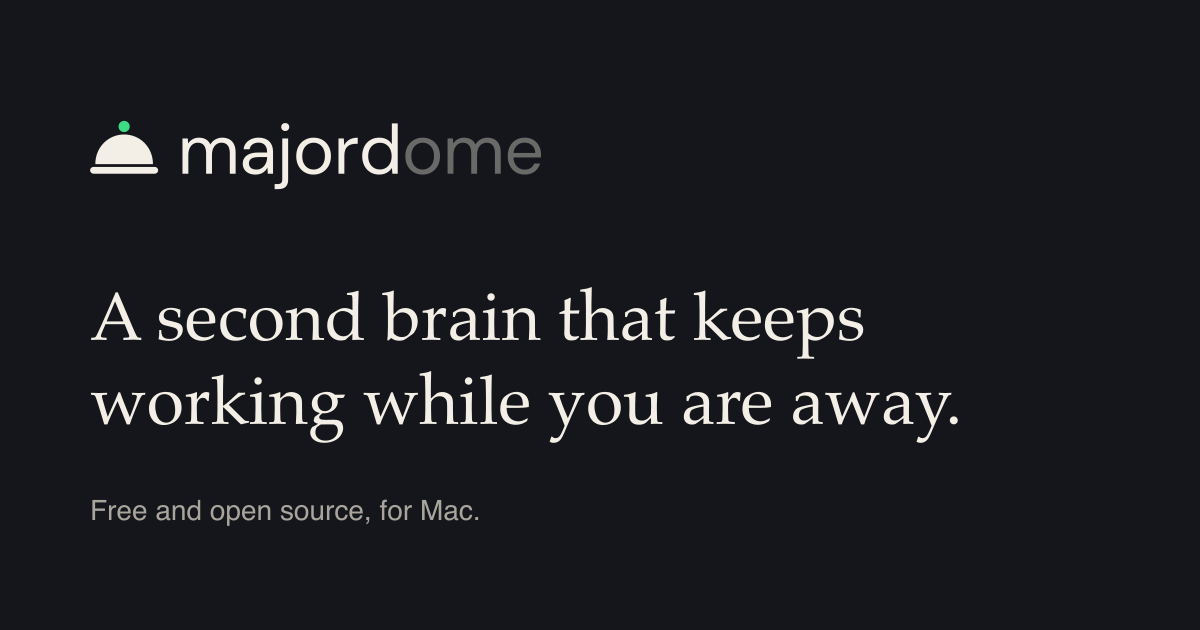
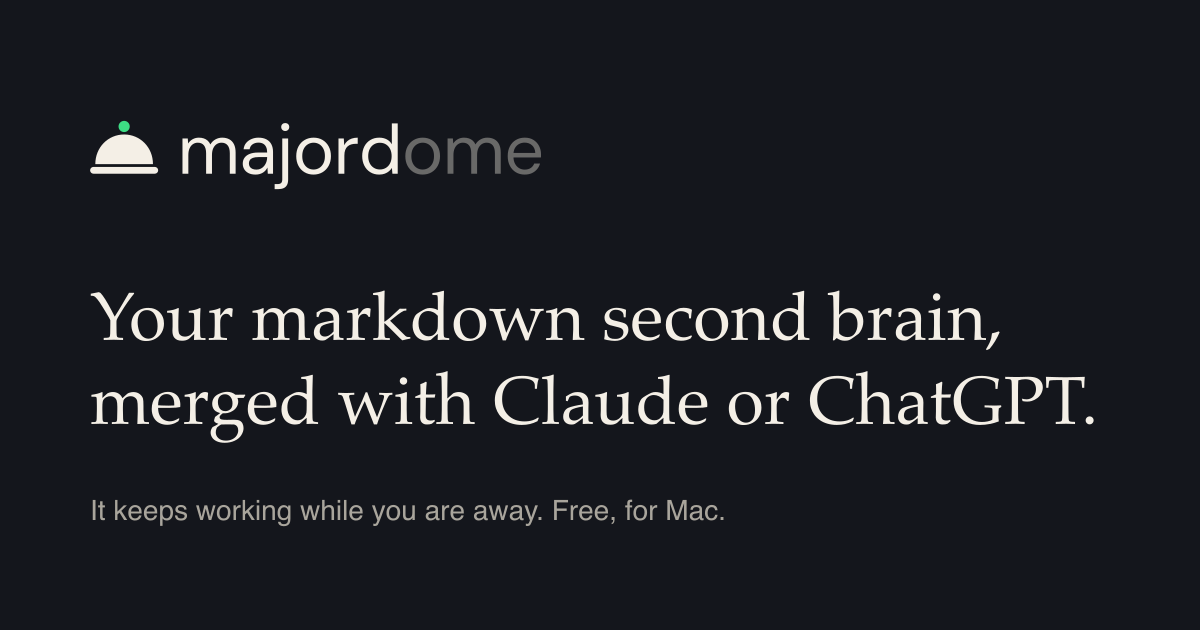
feat(site): the landing page says what Majordome is: markdown notes merged with Claude or ChatGPT

Changed region(s): [[0.0617, 0.573, 0.8942, 0.7238], [0.0617, 0.4524, 0.8325, 0.573], [0.0617, 0.7841, 0.5858, 0.8444]]

diff --git a/site/index.html b/site/index.html
@@ -3,10 +3,10 @@
   <head>
     <meta charset="utf-8" />
     <meta name="viewport" content="width=device-width, initial-scale=1" />
-    <title>Majordome: a second brain that keeps working while you are away</title>
+    <title>Majordome: your markdown second brain, merged with Claude or ChatGPT</title>
     <meta
       name="description"
-      content="Majordome is a free, open-source Mac app. Your memory is a folder of markdown notes. An assistant reads it before you type, runs routines on a schedule, and asks before it touches anything sensitive."
+      content="Majordome is a free, open-source Mac app that joins a second brain of markdown notes with the Claude or ChatGPT plan you already have. The assistant knows your notes, runs routines on a schedule, and keeps working while you are away."
     />
     <meta name="color-scheme" content="light dark" />
     <meta name="theme-color" content="#f4efe6" media="(prefers-color-scheme: light)" />
@@ -17,7 +17,7 @@
     <meta property="og:title" content="Majordome" />
     <meta
       property="og:description"
-      content="A second brain with an agent that keeps working while you are away."
+      content="Your markdown second brain, merged with Claude or ChatGPT. It keeps working while you are away."
     />
     <meta property="og:url" content="https://majord.me/" />
     <meta property="og:image" content="https://majord.me/og.png" />
@@ -194,9 +194,50 @@
         color: var(--muted);
       }
 
+      .sum {
+        display: grid;
+        grid-template-columns: 1fr auto 1fr auto 1.15fr;
+        align-items: stretch;
+        gap: 14px;
+        margin: 56px auto 0;
+        max-width: 940px;
+        text-align: left;
+      }
+      .sum .part {
+        display: flex;
+        flex-direction: column;
+        gap: 4px;
+        padding: 18px 20px;
+        border: 1px solid var(--line);
+        border-radius: 14px;
+        background: var(--surface);
+        font-size: 0.93rem;
+        color: var(--muted);
+      }
+      .sum .part strong {
+        font: 500 1.3rem/1.2 var(--serif);
+        color: var(--ink);
+      }
+      .sum .k {
+        display: flex;
+        align-items: center;
+        gap: 8px;
+        font-size: 0.74rem;
+        letter-spacing: 0.06em;
+        text-transform: uppercase;
+      }
+      .sum .total {
+        border-color: var(--ink);
+      }
+      .sum .op {
+        align-self: center;
+        font: 500 1.8rem/1 var(--serif);
+        color: var(--muted);
+      }
+
       /* The app picture is always the dark window, in both themes. */
       .window {
-        margin: 64px auto 0;
+        margin: 28px auto 0;
         max-width: 940px;
         text-align: left;
         background: #14161c;
@@ -446,6 +487,13 @@
           grid-template-columns: 1fr;
           gap: 32px;
         }
+        .sum {
+          grid-template-columns: 1fr;
+          gap: 6px;
+        }
+        .sum .op {
+          justify-self: center;
+        }
       }
       @media (max-width: 620px) {
         nav a.link {
@@ -500,19 +548,39 @@
       <main>
         <div class="hero">
           <div class="eyebrow"><span class="dot"></span>Free and open source, for Mac</div>
-          <h1>A second brain that keeps working while you are away.</h1>
+          <h1>Your markdown second brain, merged with Claude or ChatGPT.</h1>
           <p class="lede">
-            Your memory is a folder of notes. Majordome reads it before you type, files what you
-            drop in, runs routines on a schedule, and asks before it touches anything sensitive.
+            Notes in plain files you own. The AI plan you already pay for. Majordome joins them into
+            one assistant that knows your notes, runs routines on a schedule, and keeps working
+            while you are away.
           </p>
           <div class="cta">
             <a class="button" href="/download">Download for Mac</a>
             <a class="button quiet" href="https://github.com/Wozacosta/majordome">View on GitHub</a>
           </div>
           <p class="fineprint">
-            For Apple silicon. <a href="/download/intel">Intel Mac?</a> Uses your own Claude
-            subscription. No Majordome account.
+            For Apple silicon. <a href="/download/intel">Intel Mac?</a> No Majordome account.
           </p>
+
+          <div class="sum">
+            <div class="part">
+              <span class="k">Your second brain</span>
+              <strong>A folder of markdown notes</strong>
+              <span>Plain files on your Mac. An Obsidian vault works as it is.</span>
+            </div>
+            <div class="op" aria-hidden="true">+</div>
+            <div class="part">
+              <span class="k">Your AI</span>
+              <strong>Claude or ChatGPT</strong>
+              <span>The plan you already have. Nothing extra to pay.</span>
+            </div>
+            <div class="op" aria-hidden="true">=</div>
+            <div class="part total">
+              <span class="k"><span class="dot"></span>Majordome</span>
+              <strong>An assistant that knows your notes</strong>
+              <span>It reads them before you type, and works while you are away.</span>
+            </div>
+          </div>
 
           <div
             class="window"
@@ -699,7 +767,7 @@
               <li>
                 <strong>Your AI plan.</strong>
                 <span
-                  >It uses your own Claude subscription, through Claude Code. Majordome charges
+                  >It uses the Claude or ChatGPT plan you already have. Majordome charges
                   nothing.</span
                 >
               </li>
@@ -726,8 +794,8 @@
             <li><strong>Download</strong> the file for your Mac from the latest release.</li>
             <li><strong>Drag</strong> Majordome to Applications and open it.</li>
             <li>
-              <strong>Sign in to Claude</strong> on the welcome screen. It installs Claude Code if
-              you don't have it.
+              <strong>Sign in to Claude or ChatGPT</strong> on the welcome screen. It installs what
+              it needs.
             </li>
             <li>
               <strong>Choose your notes:</strong> start new ones, or point it at a folder you
